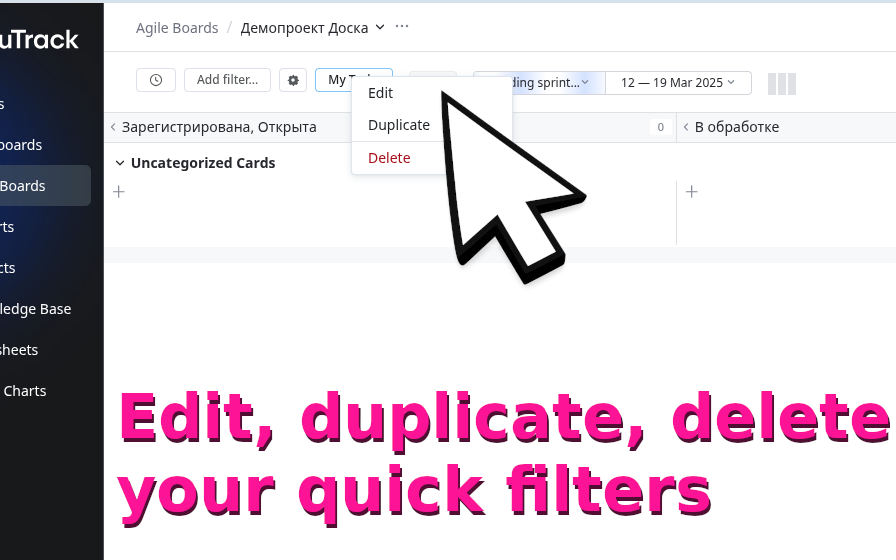
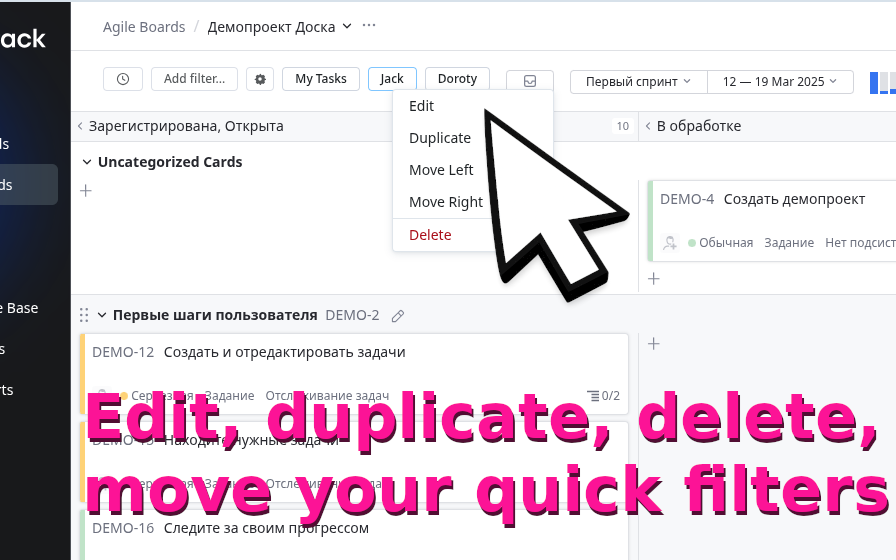
v1.0.1, added move left / move right functionality

diff --git a/src/components/QuickFiltersApp.tsx b/src/components/QuickFiltersApp.tsx
@@ -220,6 +220,26 @@ export const QuickFiltersApp: React.FC = () => {
     }
   }, [closeContextMenu, storageService, loadFilters]);
 
+  const handleMoveFilterLeft = useCallback(async (index: number) => {
+    closeContextMenu();
+    try {
+      await storageService.moveFilter(index, 'left');
+      await loadFilters();
+    } catch (error) {
+      console.error('Failed to move filter left:', error);
+    }
+  }, [closeContextMenu, storageService, loadFilters]);
+
+  const handleMoveFilterRight = useCallback(async (index: number) => {
+    closeContextMenu();
+    try {
+      await storageService.moveFilter(index, 'right');
+      await loadFilters();
+    } catch (error) {
+      console.error('Failed to move filter right:', error);
+    }
+  }, [closeContextMenu, storageService, loadFilters]);
+
   const handleDeleteFilter = useCallback(async (index: number) => {
     closeContextMenu();
     try {
@@ -360,7 +380,11 @@ export const QuickFiltersApp: React.FC = () => {
             index={contextMenu.index}
             onEdit={handleEditFilter}
             onDuplicate={handleDuplicateFilter}
+            onMoveLeft={handleMoveFilterLeft}
+            onMoveRight={handleMoveFilterRight}
             onDelete={handleDeleteFilter}
+            canMoveLeft={contextMenu.index > 0}
+            canMoveRight={contextMenu.index >= 0 && contextMenu.index < filters.length - 1}
             onClose={closeContextMenu}
           />,
           document.body

diff --git a/src/services/storage.ts b/src/services/storage.ts
@@ -92,7 +92,7 @@ export class StorageService {
 
     const existingFilters = await this.getFilters();
     const importedByLabel = new Map(filters.map((filter) => [filter.label, filter]));
-    const mergedFilters = existingFilters.map((filter) => {
+    const mergedFilters: Filter[] = existingFilters.map((filter) => {
       const importedFilter = importedByLabel.get(filter.label);
       return importedFilter ? importedFilter : filter;
     });
@@ -101,7 +101,6 @@ export class StorageService {
     for (const filter of filters) {
       if (!existingLabels.has(filter.label)) {
         mergedFilters.push(filter);
-        existingLabels.add(filter.label);
       }
     }
 
@@ -160,6 +159,18 @@ export class StorageService {
       filters.splice(index + 1, 0, newFilter);
       await this.saveFilters(filters);
     }
+  }
+
+  public async moveFilter(index: number, direction: 'left' | 'right'): Promise<void> {
+    const filters = await this.getFilters();
+    const targetIndex = direction === 'left' ? index - 1 : index + 1;
+
+    if (index < 0 || index >= filters.length || targetIndex < 0 || targetIndex >= filters.length) {
+      return;
+    }
+
+    [filters[index], filters[targetIndex]] = [filters[targetIndex], filters[index]];
+    await this.saveFilters(filters);
   }
 
   private generateUniqueLabel(base: string, filters: Filter[]): string {

diff --git a/src/components/ContextMenu.tsx b/src/components/ContextMenu.tsx
@@ -9,7 +9,11 @@ export const ContextMenu: React.FC<ContextMenuProps> = ({
   index,
   onEdit,
   onDuplicate,
+  onMoveLeft,
+  onMoveRight,
   onDelete,
+  canMoveLeft,
+  canMoveRight,
   onClose
 }) => {
   const menuRef = useRef<HTMLDivElement>(null);
@@ -88,6 +92,30 @@ export const ContextMenu: React.FC<ContextMenuProps> = ({
         }}
       >
         Duplicate
+      </div>
+
+      <div
+        className={`mi ${canMoveLeft ? '' : 'disabled'}`}
+        onClick={(e) => {
+          e.stopPropagation();
+          if (canMoveLeft) {
+            onMoveLeft(index);
+          }
+        }}
+      >
+        Move Left
+      </div>
+
+      <div
+        className={`mi ${canMoveRight ? '' : 'disabled'}`}
+        onClick={(e) => {
+          e.stopPropagation();
+          if (canMoveRight) {
+            onMoveRight(index);
+          }
+        }}
+      >
+        Move Right
       </div>
       
       <div className="sep"></div>

diff --git a/src/types/index.ts b/src/types/index.ts
@@ -21,7 +21,11 @@ export interface ContextMenuProps {
   index: number;
   onEdit: (item: Filter, index: number) => void;
   onDuplicate: (item: Filter, index: number) => void;
+  onMoveLeft: (index: number) => void;
+  onMoveRight: (index: number) => void;
   onDelete: (index: number) => void;
+  canMoveLeft: boolean;
+  canMoveRight: boolean;
   onClose: () => void;
 }
 

diff --git a/src/components/ContextMenu.css b/src/components/ContextMenu.css
@@ -25,6 +25,15 @@
   background: rgb(235, 246, 255);
 }
 
+#ytqf-menu .mi.disabled {
+  color: rgb(123, 134, 145);
+  cursor: default;
+}
+
+#ytqf-menu .mi.disabled:hover {
+  background: transparent;
+}
+
 #ytqf-menu .danger {
   color: rgb(169, 15, 26);
 }

diff --git a/README.md b/README.md
@@ -16,7 +16,7 @@ Repository: https://github.com/MihanEntalpo/yt-quick-filters-extended
 - Apply filters directly through the YouTrack query UI without reloading the page.
 - Toggle filters on and off inside the current board query using `AND`.
 - Detect which quick filters are already present in the current query and highlight active buttons automatically.
-- Edit, duplicate, or remove filters via a clean UI.
+- Edit, duplicate, move, or remove filters via a clean UI.
 - Export all filters for the current board as JSON.
 - Import filters from JSON in either replace or merge mode.
 - Merge imported filters by name: update existing ones, add missing ones, and keep unrelated current filters.
@@ -47,6 +47,20 @@ This extension brings a long-requested feature (see JetBrains request [JT-38623]
 1. Get the extension from the [Chrome Web Store](https://chromewebstore.google.com/detail/...).
 2. Open any Agile board in YouTrack.
 3. Start adding, combining, exporting, and importing your own quick filters.
+
+## Release notes
+
+1.0.1 Added filters move functionality
+
+* Import no longer messes up with order of filters
+* Added Move Left / Move Right buttons in context filter's context menu
+
+1.0.0 Initial version
+
+* forked from https://github.com/ausievich/yt-quick-filters v2.2.0
+* Added export/import functionality
+* Added support for newest Youtrack UI
+* Gave quick filters an ability to be activated together, joined via "AND" operator and without page reload    
 
 ---
 
